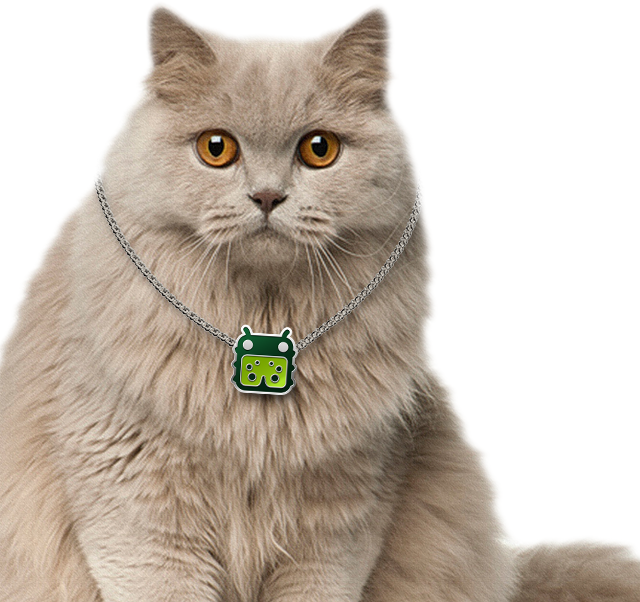
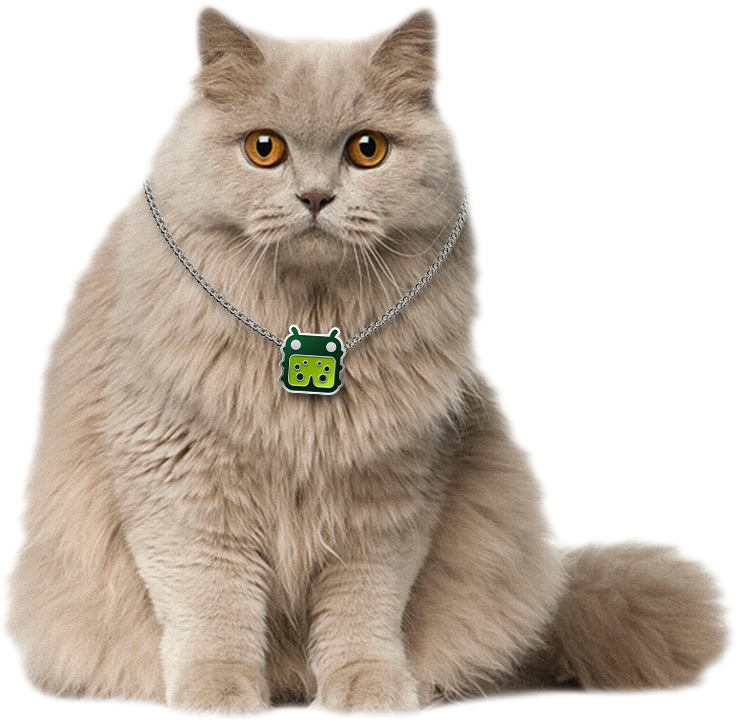
Change Readme, fix content images & styles

diff --git a/src/components/good-item/good-item.css b/src/components/good-item/good-item.css
@@ -1,7 +1,11 @@
+.card--not-available .card__promo * {
+  opacity: 0.5;
+  color: var(--color-grey);
+}
+
 .card--not-available .card__promo {
   cursor: not-allowed;
-  /* filter: grayscale(60%) drop-shadow(0px 4px 4px rgba(0, 0, 0, 0.25)); */
-  opacity: 0.5;
+  border-color: var(--color-grey);
 }
 
 .card {
@@ -13,14 +17,25 @@
   flex-direction: column;
   position: relative;
   min-height: 480px;
-  padding: 17px 12px 12px 47px;
+  padding: 17px 12px 0 47px;
   border-radius: 12px;
   border: 4px solid var(--color-blue);
-  background: url(../../../public/img/card-bg@2x.png) #f2f2f2 center 120% no-repeat;
-  background-size: contain;
+  background-color: #F2F2F2;
   margin-bottom: 14px;
   cursor: pointer;
   clip-path: polygon(44px 0, 100% 0, 100% 100%, 0 100%, 0 44px);
+  overflow: hidden;
+}
+
+.card__promo picture {
+  display: block;
+  max-height: 280px;
+  margin: auto 0 0 -47px;
+}
+
+.card__image {
+  object-fit: cover;
+  object-position: 40% 16px;
 }
 
 .card__promo::before {
@@ -57,6 +72,10 @@
 
 .card__promo--selected-hovered::before {
   border-color: var(--color-pink-selected-hovered);
+}
+
+.card--not-available .card__promo::before {
+  border-color: var(--color-grey);
 }
 
 .card__tagline {
@@ -103,6 +122,9 @@
 }
 
 .card__netweight {
+  position: absolute;
+  bottom: 12px;
+  right: 12px;
   display: flex;
   flex-direction: column;
   align-items: center;
@@ -126,6 +148,16 @@
 
 .card__netweight--selected-hovered {
   background-color: var(--color-pink-selected-hovered);
+}
+
+.card--not-available .card__netweight {
+  opacity: 1;
+  background-color: var(--color-grey);
+}
+
+.card--not-available .card__netweight * {
+  opacity: 1;
+  color: var(--color-white);
 }
 
 .card__netweight span:first-child {

diff --git a/src/components/good-item/good-item.tsx b/src/components/good-item/good-item.tsx
@@ -94,6 +94,10 @@ function GoodItem ({good}: GoodItemProps): JSX.Element {
           {` ${good.giftQty ? getGiftSuffix(good.giftQty) : ''} в подарок`}
         </p>
         <p className='card__resume'>{good.resume ? good.resume.toLowerCase() : ''}</p>
+        <picture>
+          <source type="image/webp" srcSet="img/card-bg@1x.webp 1x, img/card-bg@2x.webp 2x"/>
+          <img className='card__image' src='img/card-bg@1x.png' srcSet='img/card-bg@2x.png 2x' width="368" height="360" alt={`Нямушка с ${good.taste}`}/>
+        </picture>
         <p className={`card__netweight ${checkBlockClassName('card__netweight')}`}>
           <span>{good.netWeight}</span>
           <span>кг</span>

diff --git a/Readme.md b/Readme.md
@@ -1,6 +1,20 @@
-# Руководство по работе с проектом
+# Описание и руководство по работе с проектом
 
-Данный проект создан с помощью [Create React App](https://github.com/facebook/create-react-app).
+Проект создан с помощью [Create React App](https://github.com/facebook/create-react-app) и является выполненным тестовым заданием для компаниии FunBox.
+
+[CatShop](https://funbox-catshop-itwaslazyday.vercel.app/) - не забудь покормить своего питомца! Маленький магазинчик питания для кошек с харизматичными описанием товаров :)
+
+В проекте реализован следующий функционал:
+
+- приложение написано на React + TypeScript, из хуков - useState, дополнительные библиотеки не использовались.
+- страница сверстана адаптивно, с контрольными точками 320/768/1280px. 
+- разметка выполнена по методологии БЭМ, стилизация реализована с использованием styled-components;
+- вёрстка выполнена по Pixel Perfect и проходит стресс-тесты на недо/переполнение контентом.
+- информацию о товарах можно изменить: наименование, вкус, наличие подарков, описание и пр.
+- склонение надписи подарка на упакове меняется в зависимости от его количества.
+- можно выбрать одновременно несколько товаров, повторное нажатие отменяет выбор.
+- состояние наведения применяется к выбранной упаковке только после повторного возвращения на нее курсора.
+- для сборки проекта используется Webpack;
 
 ## Структура проекта
 
